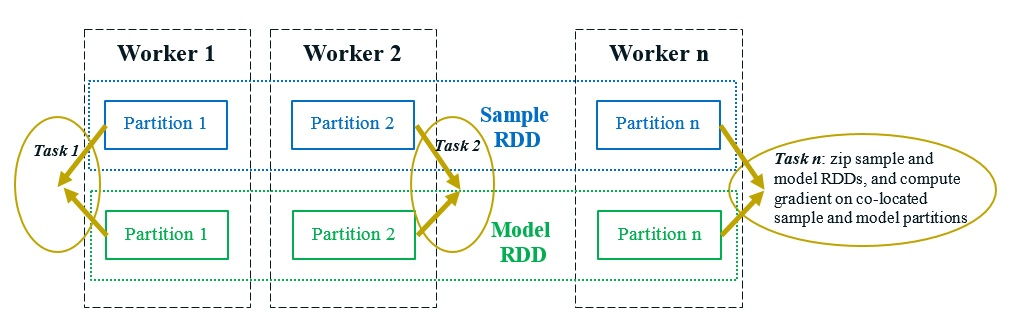
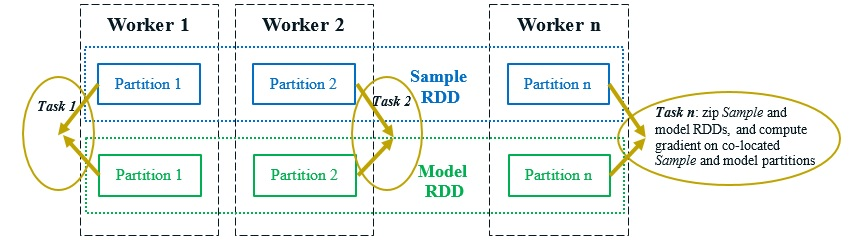
update white paper (#2505)
* Update whitepaper.md

* Delete fig4.jpg

* Add files via upload

* Delete fig6.jpg

* Add files via upload

* Update whitepaper.md

diff --git a/docs/docs/whitepaper.md b/docs/docs/whitepaper.md
@@ -10,7 +10,7 @@ Jason (Jinquan) Dai<sup>1</sup>, Yiheng Wang<sup>1</sup>, Xin Qiu<sup>1</sup>, D
 
 ## **Abstract**
 
-*In this paper, we present BigDL, a distributed deep learning framework for Big Data platforms and workflows. It is implemented on top of Apache Spark, and allows users to write their deep learning applications as standard Spark programs (running directly on large-scale big data clusters in a distributed fashion). It provides an expressive, “data-analytics integrated” deep learning programming model, so that users can easily build the end-to-end analytics + AI pipelines under a unified programing paradigm; by implementing an *AllReduce* like operation using existing primitives in Spark (e.g., shuffle, broadcast, and in-memory data persistence), it also provides a highly efficient “parameter server” style architecture, so as to achieve highly scalable, data-parallel distributed training. Since its initial open source release, BigDL users have built many analytics and deep learning applications (e.g., object detection, sequence-to-sequence generation, neural recommendations, fraud detection, etc.) on Spark.*
+*In this paper, we present BigDL, a distributed deep learning framework for Big Data platforms and workflows. It is implemented on top of Apache Spark, and allows users to write their deep learning applications as standard Spark programs (running directly on large-scale big data clusters in a distributed fashion). It provides an expressive, “data-analytics integrated” deep learning programming model, so that users can easily build the end-to-end analytics + AI pipelines under a unified programing paradigm; by implementing an *AllReduce* like operation using existing primitives in Spark (e.g., shuffle, broadcast, and in-memory data persistence), it also provides a highly efficient “parameter server” style architecture, so as to achieve highly scalable, data-parallel distributed training. Since its initial open source release, BigDL users have built many analytics and deep learning applications (e.g., object detection, sequence-to-sequence generation, visual similarity, neural recommendations, fraud detection, etc.) on Spark.*
 
 ## **1.	Introduction**
 
@@ -24,7 +24,7 @@ Recent breakthroughs in artificial intelligence have brought deep learning to th
 
 We have developed *BigDL* [11], a distributed deep learning framework for big data platforms and workflows. It is implemented as a library on top of Apache Spark, and allows users to write their large-scale deep learning applications (including model training, fine-tuning and inference) as standard Spark programs, which can run directly on existing big data (Hadoop or Spark) clusters. BigDL provides comprehensive support of deep learning technologies (neural network operations, layers, losses and optimizers); in particular, users can directly run existing models defined in other frameworks (such as TensorFlow, Keras [12], Caffe and Torch) on Spark in a distributed fashion.
 
-BigDL also provides seamless integrations of deep learning technologies into the big data ecosystem. Not only can a BigDL program directly interact with different components in the Spark framework (e.g., DataFrames [13], Spark Streaming [14], ML Pipelines [15], etc.), it can also directly run in a variety of big data frameworks (such as Apache Storm [17], Apache Flink [18], Apache Kafka [19], etc.). Since its initial open source on Dec 30, 2016, BigDL has enabled many community users to build their deep learning applications (e.g., object detection, sequence-to-sequence generation, neural recommendations, fraud detection, etc.) on Spark and big data platforms.
+BigDL also provides seamless integrations of deep learning technologies into the big data ecosystem. Not only can a BigDL program directly interact with different components in the Spark framework (e.g., DataFrames [13], Spark Streaming [14], ML Pipelines [15], etc.), it can also directly run in a variety of big data frameworks (such as Apache Storm [17], Apache Flink [18], Apache Kafka [19], etc.). Since its initial open source on Dec 30, 2016, BigDL has enabled many community users to build their deep learning applications (e.g., object detection, sequence-to-sequence generation, visual similarity, neural recommendations, fraud detection, etc.) on Spark and big data platforms.
 
 ## **2.	Programming Model** 
 
@@ -55,10 +55,11 @@ BigDL is implemented on Apache Spark, a widely used cluster computing engine for
 21   optim_method = Adagrad()
 22   optimizer = Optimizer(model=model, training_rdd=sample_rdd, 
 23                         criterion=loss, optim_method= optim_method, …)
-24   trained_model =optimizer.optimize()
-25   //model prediction
-26   test_rdd = …
-27   prediction_rdd = trained_model.predict(test_rdd)
+24   optimizer.set_train_summary(summary = TrainSummary(…))
+25   trained_model =optimizer.optimize()
+26   //model prediction
+27   test_rdd = …
+28   prediction_rdd = trained_model.predict(test_rdd)
 ```
 
 *Figure 1. The end-to-end text classification pipeline (including data loading, tokenization, word vectorization, training, prediction, etc.) on Spark and BigDL.*
@@ -81,22 +82,24 @@ Similar to Torch and Keras, BigDL uses a dataflow representation for the neural 
 
 ### **2.4. Model training**
 
-The transformed input data (RDD of Samples) and the constructed model can then be passed over to the *Optimizer* in BigDL, which automatically performs distributed model training across the cluster, as illustrated by lines 19 ~ 24 in *Figure 1.*
+The transformed input data (RDD of Samples) and the constructed model can then be passed over to the *Optimizer* in BigDL, which automatically performs distributed model training across the cluster, as illustrated by lines 19 ~ 25 in *Figure 1.*
 
-* **Optimizer:** In BigDL, the distributed training process is modelled by an Optimizer abstraction, which runs iterative Spark jobs to minimize the loss (as defined by the user specified Criterion) using specific optimization method (such as *SGD, AdaGrad [24], Adam [25], etc.*).
+* **Optimizer:** In BigDL, the distributed training process is modelled by the Optimizer abstraction, which runs multiple, iterative Spark jobs to minimize the loss (as defined by the user specified Criterion) using specific optimization method (such as *SGD, AdaGrad [24], Adam [25], etc.*).
+
+* **Visualization:** To make it easy for users to understand the behaviors of model training, the *optimizer* in BigDL can be configured to produce a *TrainSummary* that contains various summary data (e.g., loss, weight, etc.), as illustrated by line 24 in Figure 1; the summary data can then be visualized in, for instance, TensorBoard [26] or Jupytor Notebooks [27].
 
 ### **2.5. Model Inference**
-BigDL also allows users to directly use existing models (pre-trained by Caffe, Keras, TensorFlow, Torch or BigDL) in Spark, so as to directly perform model prediction in a distributed fashion (using RDD transformations), as illustrated by lines 25 ~ 27 in Figure 1. 
+BigDL also allows users to directly use existing models (pre-trained by Caffe, Keras, TensorFlow, Torch or BigDL) in Spark, so as to directly perform model prediction in a distributed fashion (using RDD transformations), as illustrated by lines 26 ~ 28 in Figure 1. 
 
-* **ModelBroadcast:** BigDL provides the *ModelBroadcast* abstraction to manage the deployment of the pre-trained model across the cluster in a Spark job; the model prediction operation (*predict*) in BigDL uses *ModelBroadcast* to cache a single copy of the model on each machine (by leveraging the *broadcast* [26] mechanism in Spark), and manage the model cloning and weight sharing among different tasks in the same machine.
+* **ModelBroadcast:** BigDL provides the *ModelBroadcast* abstraction to manage the deployment of the pre-trained model across the cluster in a Spark job; the model prediction operation (*predict*) in BigDL uses *ModelBroadcast* to cache a single copy of the model on each machine (by leveraging the *broadcast* [28] mechanism in Spark), and manage the model cloning and weight sharing among different tasks in the same machine.
 
 ### **2.6. Spark DataFrame and ML Pipeline**
 
-Besides RDD, Spark provides a high level *DataFrame* abstraction [13], which is a distributed collection of rows with a specific schema (similar to a table in a relational database), and implements data-parallel relational operators like *filter* and *join* for efficient structured data analysis. On top of DataFrame, Spark introduces a high level ML *(machine learning) pipeline* [15] similar to SciKit-Learn [27], which allows users to construct the machine learning workflow as a graph of transformations on data (e.g., feature extraction, normalization, model training, etc.). BigDL also provides native integration with the high level Spark DataFrame and ML Pipeline APIs (using its *DLModel* and *DLEstimator* abstractions). 
+Besides RDD, Spark provides a high level *DataFrame* abstraction [13], which is a distributed collection of rows with a specific schema (similar to a table in a relational database), and implements data-parallel relational operators like *filter* and *join* for efficient structured data analysis. On top of DataFrame, Spark introduces a high level ML *(machine learning) pipeline* [15] similar to SciKit-Learn [29], which allows users to construct the machine learning workflow as a graph of transformations on data (e.g., feature extraction, normalization, model training, etc.). BigDL also provides native integration with the high level Spark DataFrame and ML Pipeline APIs (using its *DLModel* and *DLEstimator* abstractions). 
 
 ## **3.	Execution Model**
 
-Similar to other Big Data systems (such as MapReduce [28]), a Spark cluster consists of a single driver node and multiple worker nodes, as shown in Figure 2.  The driver node is responsible for coordinating the tasks in a Spark job (e.g., scheduling and dispatching), while the worker nodes are responsible for the actual computation and physical data storage. To automatically parallelize the large-scale data processing across the cluster in a fault-tolerant fashion, Spark provides a functional compute model where immutable RDDs are transformed through coarse-grained operators (i.e., applying the same operation to all data items). 
+Similar to other Big Data systems (such as MapReduce [30]), a Spark cluster consists of a single driver node and multiple worker nodes, as shown in Figure 2.  The driver node is responsible for coordinating the tasks in a Spark job (e.g., scheduling and dispatching), while the worker nodes are responsible for the actual computation and physical data storage. To automatically parallelize the large-scale data processing across the cluster in a fault-tolerant fashion, Spark provides a functional compute model where immutable RDDs are transformed through coarse-grained operators (i.e., applying the same operation to all data items). 
 
  ![fig2](Image/WP/fig2.jpg) 
  
@@ -106,14 +109,14 @@ On the other hand, efficient and distributed training of deep neural networks wo
 
 ### **3.1. Data-parallel training**
 
-To train a deep neural network model across the cluster, BigDL provides data-parallel training on Spark using synchronous mini-batch SGD, which is shown to achieve better scalability and efficiency (in terms of time-to-quality) compared to asynchronous training [29][30]. The distributed training in BigDL is implemented as an iterative process, as illustrated in Figure 3; each iteration runs a couple of Spark jobs to first compute the gradients using the current mini-batch, and then make a single update to the parameters of the neural network model.
+To train a deep neural network model across the cluster, BigDL provides data-parallel training on Spark using synchronous mini-batch SGD, which is shown to achieve better scalability and efficiency (in terms of time-to-quality) compared to asynchronous training [31][32]. The distributed training in BigDL is implemented as an iterative process, as illustrated in Figure 3; each iteration runs a couple of Spark jobs to first compute the gradients using the current mini-batch, and then make a single update to the parameters of the neural network model.
 
 ```
 for (i <- 1 to N) {
   //"model forward-backward" job
   for each task in the Spark job:
      read the latest weights
-     get a random batch of data from local sample partition
+     get a random batch of data from local Sample partition
      compute errors (forward on local model replica)
      compute gradients (backward on local model replica)
   //"parameter synchronization" job
@@ -125,7 +128,7 @@ for (i <- 1 to N) {
 
 *Figure 3. BigDL provides efficient, data-parallel, synchronous mini-batch SGD, where each iteration runs two Spark jobs for “model forward-backward” and “parameter synchronization”.*
 
-As described in Section 2, BigDL models the training data as an RDD of Samples, which are automatically partitioned and potentially cached in memory across the Spark cluster. In addition, to implement the data-parallel training, BigDL also constructs an RDD of models, each of which is a replica of the original neural network model. The model and sample RDDs are co-partitioned and co-located [14] across the cluster, as shown in Figure 4; consequently, in each iteration of the model training, a single “model forward-backward” Spark job can apply the functional zip operator to the partitions of model and sample RDDs, and compute the gradients in parallel for each model replica (using a small batch of data in the co-located sample partition), as illustrated in Figure 4.
+As described in Section 2, BigDL models the training data as an RDD of Samples, which are automatically partitioned and potentially cached in memory across the Spark cluster. In addition, to implement the data-parallel training, BigDL also constructs an RDD of models, each of which is a replica of the original neural network model. The model and Sample RDDs are co-partitioned and co-located [14] across the cluster, as shown in Figure 4; consequently, in each iteration of the model training, a single “model forward-backward” Spark job can apply the functional *zip* operator to the partitions of model and Sample RDDs, and compute the gradients in parallel for each model replica (using a small batch of data in the co-located Sample partition), as illustrated in Figure 4.
 
 ![fig4](Image/WP/fig4.jpg) 
  
@@ -133,8 +136,9 @@ As described in Section 2, BigDL models the training data as an RDD of Samples, 
 
 ### **3.2. Parameter synchronization**
 
-Parameter synchronization is a performance critical operation for data-parallel training (in terms of speed and scalability). To support efficient parameter synchronization, existing deep learning frameworks usually implement the parameter server [31][32][33] architecture or AllReduce [34] operation, which unfortunately cannot be directly supported by the functional compute model provided by the Big Data systems.
-In BigDL, we have adapted the primitives available in the Spark (e.g., shuffle, broadcast, in-memory cache, etc.) to implement an efficient AllReduce-like operation, so as to mimic the functionality of a parameter server architecture (as illustrated in Figure 5).
+Parameter synchronization is a performance critical operation for data-parallel training (in terms of speed and scalability). To support efficient parameter synchronization, existing deep learning frameworks usually implement the *parameter server* [33][34][35] architecture or *AllReduce* [36] operation, which unfortunately cannot be directly supported by the functional compute model provided by the Big Data systems.
+
+In BigDL, we have adapted the primitives available in Spark (e.g., *shuffle, broadcast, in-memory cache*, etc.) to implement an efficient AllReduce-like operation, so as to mimic the functionality of a parameter server architecture (as illustrated in Figure 5).
  
 ![fig5](Image/WP/fig5.jpg) 
 
@@ -142,40 +146,34 @@ In BigDL, we have adapted the primitives available in the Spark (e.g., shuffle, 
 
 * A Spark job has *N* tasks, each of which is assigned a unique Id ranging from *1* to *N* in BigDL. After each task in the “*model forward-backward*” job computes the local gradients (as described in section 3.1), it evenly divides the local gradients into *N* partitions, as shown in Figure 5.
 
-* Next, another “*parameter synchronization*” job is launched; each task *n* in the “*parameter synchronization*” job is responsible for managing the n<sup>th</sup> partition of the parameters, just like a parameter server (as shown in Figure 6). Specifically, the n<sup>th</sup> partition of the gradients (from all the tasks of the previous “*model forward-backward*” job) are first **shuffled** to task n, which then aggregates (sums) these gradients, and applies the updates to the n<sup>th</sup> partition of the weights (using the specific optimization method), as illustrated in Figure 5.
+* Next, another “*parameter synchronization*” job is launched; each task *n* in the “*parameter synchronization*” job is responsible for managing the n<sup>th</sup> partition of the parameters, just like a parameter server (as shown in Figure 6). Specifically, the n<sup>th</sup> partition of the gradients (from all the tasks of the previous “*model forward-backward*” job) are first **shuffled** to task *n*, which then aggregates (sums) these gradients, and applies the updates to the n<sup>th</sup> partition of the weights (using the specific *optimization method*), as illustrated in Figure 5.
 
-```
-For each task n in the "parameter synchronization" job
-   shuffle the nth partition of all gradients to this task
-   aggregate (sum) the gradients
-   updates the nth partition of the weights
-   broadcast the nth partition of the updated weights
-```
+![fig6](Image/WP/fig6.jpg) 
 
 *Figure 6. The “parameter synchronization” Spark job, manages the n<sup>th</sup> partition of the parameters (similar to a parameter server).*
  
-* After that, each task *n* in the “*parameter synchronization*” job **broadcasts** the n<sup>th</sup> partition of the updated weights; consequently, tasks in the “*model forward-backward*” job in the next iteration can read the latest value of all the weights before the next training step begins.
+* After that, each task *n* in the “*parameter synchronization*” job **broadcasts** the n<sup>th</sup> partition of the updated weights; consequently, tasks in the “*model forward-backward*” job of the next iteration can read the latest value of all the weights before the next training step begins.
 
-* The *shuffle* and *task-side broadcast* operations described above are implemented on top of the distributed **in-memory** storage in Spark: both the shuffled gradients and broadcasted weights are materialized in memory, which can be read remotely by the Spark tasks with extremely low latency.
+* The *shuffle* and *task-side broadcast* operations described above are implemented on top of the distributed **in-memory** storage in Spark: both the shuffled *gradients* and broadcasted *weights* are materialized in memory, which can be read remotely by the Spark tasks with extremely low latency.
 
-By implementing the AllReduce operation using primitives in Spark, BigDL provides a highly efficient “parameter server” style architecture directly on top of Big Data frameworks. As a result, it is demonstrated to support highly scalable distributed training on up to 256-node, as reported by Cray [35] and shown in Figure 7. 
+By implementing the AllReduce operation using primitives in Spark, BigDL provides a highly efficient “parameter server” style architecture directly on top of Big Data frameworks. As a result, it is demonstrated to support highly scalable distributed training on up to 256-node, as reported by Cray [37] and shown in Figure 7. 
  
  ![fig7](Image/WP/fig7.jpg) 
 
-*Figure 7. Throughput of ImageNet Inception v1 training reported by Cary [35] (using BigDL 0.3.0 and dual-socket Intel Broadwell 2.1 GHz); the training throughput scales almost linear up to 128 nodes (and continue to scale reasonably up to 256 nodes).*
+*Figure 7. Throughput of ImageNet Inception v1 training reported by Cary [37] (using BigDL 0.3.0 and dual-socket Intel Broadwell 2.1 GHz); the training throughput scales almost linear up to 128 nodes (and continue to scale reasonably up to 256 nodes).*
 
 
 ### **3.3. Task scheduling**
 
-While BigDL provides a highly efficient “parameter server” style architecture, it has a fundamentally different implementation than existing deep learning frameworks. In particular, existing deep learning frameworks are typically deployed as multiple long-running, potentially stateful tasks [3], which interact with each other (in a blocking fashion to support synchronous mini-batch SGD) for model computation and/or parameter synchronization.
+While BigDL provides a highly efficient “parameter server” style architecture, it has a fundamentally different implementation than existing deep learning frameworks. In particular, existing deep learning frameworks are typically deployed as multiple long-running, potentially stateful tasks [3], which interact with each other (in a blocking fashion to support synchronous mini-batch SGD) for model computation and parameter synchronization.
 
-In contrast, BigDL runs a series of short-lived Spark jobs (e.g., two jobs per mini-batch as described in earlier sections), and each task in the job is stateless and non-blocking. As a result, BigDL programs can automatically adapt to the dynamic resource changes (e.g., preemption, failures, incremental scaling, resource sharing, etc.) in a timely fashion. On the other hand, task scheduling in Spark can become a potential bottleneck of the distributed training on a large cluster. For instance, Figure 8 shows that, for ImageNet Inception v1 training, the overhead of launching tasks (as a fraction of average compute time) in BigDL, while low for 100~200 tasks, can grows to over 10% when there are close to 500 tasks [37]. To address this issue, BigDL will launch a single, multi-threaded task on each worker, so as to achieve high scalability (e.g., up to 256 servers as shown in Figure 7 above). 
+In contrast, BigDL runs a series of short-lived Spark jobs (e.g., two jobs per mini-batch as described in earlier sections), and each task in the job is stateless and non-blocking. As a result, BigDL programs can automatically adapt to the dynamic resource changes (e.g., preemption, failures, incremental scaling, resource sharing, etc.) in a timely fashion. On the other hand, task scheduling in Spark can become a potential bottleneck of the distributed training on a large cluster. For instance, Figure 8 shows that, for ImageNet Inception v1 training, the overhead of launching tasks (as a fraction of average compute time) in BigDL, while low for 100~200 tasks, can grows to over 10% when there are close to 500 tasks [39]. To address this issue, BigDL will launch a single, multi-threaded task on each worker, so as to achieve high scalability on large clusters (e.g., up to 256 servers as shown in Figure 7 above). 
 
-To scale to an even larger number (e.g., 500) of workers, one can potentially leverages the iterative nature of the model training (in which the same operations are executed repeatedly). For instance, group scheduling introduced by Drizzle [36] (a low latency execution engine for Spark) can help schedule multiple iterations (or a group) of computations at once, so as to greatly reduce scheduling overheads even if there are a large number of tasks, as benchmarked by RISELab [37] and shown in Figure 8.
+To scale to an even larger number (e.g., 500) of workers, one can potentially leverages the iterative nature of the model training (in which the same operations are executed repeatedly). For instance, group scheduling introduced by *Drizzle* [38] (a low latency execution engine for Spark) can help schedule multiple iterations (or a group) of computations at once, so as to greatly reduce scheduling overheads even if there are a large number of tasks, as benchmarked by RISELab [39] and shown in Figure 8.
 
 ![fig8](Image/WP/fig8.jpg) 
   
-*Figure 8. Overheads of task scheduling and dispatch (as a fraction of average compute time) for ImageNet Inception v1 training in BigDL [37].*
+*Figure 8. Overheads of task scheduling and dispatch (as a fraction of average compute time) for ImageNet Inception v1 training in BigDL [39].*
 
 ### **3.4. Model quantization** 
 Quantization refers to using technologies that store numbers and perform calculations on them in more compact and lower precision form (than their original format such as 32-bit floating point). BigDL takes advantage of this type of low precision computing to quantize existing models (which can be pre-trained by various frameworks such as Caffe, Keras, TensorFlow, Torch or BigDL) for optimized inference.
@@ -190,11 +188,11 @@ Math.round(1.0 * value
  
 *Figure 9. Equation for quantizing 32-bit floating point to 8-bit integer.*
 
-Unlike many existing quantization implementations, BigDL adopts a new local quantization scheme. That is, it performs the quantization and dequantization operations (as described above) in each small local quantization window, a small sub-block (such as a patch or kernel in convolution) of the parameters or input data. As a result, BigDL can use very low bit integers, such as 8-bit, in model quantization with extremely low model accuracy drop (less than 0.1%), 4x model size reduction, and up to 2x inference speedup, as benchmarked on AWS EC2 [38] and shown in Figure 10.
+Unlike many existing quantization implementations, BigDL adopts a new local quantization scheme. That is, it performs the quantization and dequantization operations (as described above) in each small local quantization window, a small sub-block (such as a patch or kernel in convolution) of the parameters or input data. As a result, BigDL can use very low bit integers, such as 8-bit, in model quantization with extremely low model accuracy drop (less than 0.1%), 4x model size reduction, and up to 2x inference speedup, as benchmarked on AWS EC2 [40] and shown in Figure 10.
 
 ![fig10](Image/WP/fig10.jpg)
    
-*Figure 10. Model quantization results (accuracy, inference speed and model size) for SSD, VGG16 and VGG19 (using BigDL 0.3.0 and AWS EC2 C5.18xlarge instances) [38].*
+*Figure 10. Model quantization results (accuracy, inference speed and model size) for SSD, VGG16 and VGG19 (using BigDL 0.3.0 and AWS EC2 C5.18xlarge instances) [40].*
 
 ### **3.5. Local execution**
 
@@ -202,80 +200,98 @@ In addition to being a standard Spark program, BigDL also provide support to run
 
 ## **4.	Applications**
 
-Since its initial open source release (on Dec 30, 2016), BigDL users have built many deep learning applications on Spark and Big Data platforms. In this section, we describes two typical use cases for both model inference and training using BigDL.
+Since its initial open source release (on Dec 30, 2016), BigDL users have built many deep learning applications on Spark and Big Data platforms. In this section, we describes three typical use cases (namely, model inference, distributed training and transfer learning) using Spark and BigDL.
 
-### **4.1. Image feature extraction**
+### **4.1. Model Inference: image feature extraction**
 
-JD.com [39] is one of the largest online retailers in the world. It has built an end-to-end *object detection and image feature extraction* pipeline [40] on top of BigDL and Spark, as illustrated in Figure 11.
+JD.com [41] is one of the largest online retailers in the world. It has built an end-to-end *object detection and image feature extraction* pipeline on top of Spark and BigDL[42], as illustrated in Figure 11.
 
 
 ![fig11](Image/WP/fig11.jpg) 
  
-*Figure 11. End-to-end object detection and image feature extraction pipeline (using SSD and DeepBit models) on top of Spark and BigDL [40].*
+*Figure 11. End-to-end object detection and image feature extraction pipeline (using SSD and DeepBit models) on top of Spark and BigDL [42].*
 
 * The pipeline first reads hundreds of millions of pictures from a distributed database into Spark (as an RDD of pictures), and then pre-processes the RDD of pictures (including *resizing*, *normalization*, and *batching*) in a distributed fashion using Spark.
 
-* After that, it uses BigDL to load a *SSD* [41] model (pre-trained in Caffe) for large scale, distributed object detection on Spark, which generates the coordinates and scores for the detected objects in each of the pictures.
+* After that, it uses BigDL to load a *SSD* [43] model (pre-trained in Caffe) for large scale, distributed object detection on Spark, which generates the coordinates and scores for the detected objects in each of the pictures.
 
 * It then generates the target images (by keeping the object with highest score as the target, and cropping the original picture based on the coordinates of the target), and further pre-processes the RDD of target images (including *resizing* and *batching*).
 
-* Finally it uses BigDL to load a *DeepBit* [42] model (again pre-trained in Caffe) for distributed feature extraction of the target images to generate the corresponding features, and stores the results (RDD of extracted object features) in the Hadoop Distributed File System (HDFS).
+* Finally it uses BigDL to load a *DeepBit* [44] model (again pre-trained in Caffe) for distributed feature extraction of the target images to generate the corresponding features, and stores the results (RDD of extracted object features) in the Hadoop Distributed File System (HDFS).
 
-The entire data analytics and deep learning pipeline, including data loading, partitioning, preprocessing, model inference, and storing the results, can be easily implemented under a unified programming paradigm (using Spark and BigDL). In addition, the end-to-end pipeline also delivers ~3.83x speedup compared to running the same solution on a GPU cluster, as reported by JD [40] and shown in Figure 12.
+The entire data analytics and deep learning pipeline, including data loading, partitioning, preprocessing, model inference, and storing the results, can be easily implemented under a unified programming paradigm (using Spark and BigDL). In addition, the end-to-end pipeline also delivers ~3.83x speedup compared to running the same solution on a GPU cluster, as reported by JD [42] and shown in Figure 12.
 
 
 ![fig12](Image/WP/fig12.jpg) 
  
-*Figure 12. Throughput of GPU clusters and Xeon clusters for the image feature extraction pipeline benchmarked by JD [40]; the GPU throughput is tested on 20 NVIDIA Tesla K40 cards, and the Xeon throughput is tested on 1200 logical cores (where each dual-socket Intel Xeon E5-2650 v4 server runs 50 logical cores).*
+*Figure 12. Throughput of GPU clusters and Xeon clusters for the image feature extraction pipeline benchmarked by JD [42]; the GPU throughput is tested on 20 NVIDIA Tesla K40 cards, and the Xeon throughput is tested on 1200 logical cores (where each dual-socket Intel Xeon E5-2650 v4 server runs 50 logical cores).*
 
-### **4.2. Precipitation Nowcasting**
+### **4.2. Distributed training: precipitation nowcasting**
 
-Cray has integrated BigDL to their Urika-XC analytics software suite, and built an end-to-end precipitation nowcasting (*predicting short-term precipitation*) workflow [35] on spark and BigDL, including data preparation, model training and inference, as illustrated in Figure 13. 
+Cray has integrated BigDL to their Urika-XC analytics software suite, and built an end-to-end precipitation nowcasting (*predicting short-term precipitation*) workflow on spark and BigDL[37], including data preparation, model training and inference (as illustrated in Figure 13). 
 
 
 ![fig13](Image/WP/fig13.jpg) 
  
-*Figure 13. End-to-end precipitation nowcasting workflow (using sequence-to-sequence model) [35] on Spark and BigDL.*
+*Figure 13. End-to-end precipitation nowcasting workflow (using sequence-to-sequence model) [37] on Spark and BigDL.*
 
 * The application first reads over a terabyte of raw radar scan data into Spark (as an RDD of radar images), and then converts it into an RDD of *NumPy ndarrays*.
 
-* It then trains a *sequence-to-sequence* model [43][44] (as illustrated in Figure 13), using a sequence of images leading up to the current time as the input, and a sequence of predicted images arbitrarily far in the future as the output.
+* It then trains a *sequence-to-sequence* model [45][46] (as illustrated in Figure 13), using a sequence of images leading up to the current time as the input, and a sequence of predicted images in the future as the output.
 
 * After the model is trained, it can be used to predict, say, precipitation patterns for the next hour, as illustrated in Figure 14.
  
 ![fig14](Image/WP/fig14.jpg) 
 
-*Figure 14. Predicting precipitation patterns for the next hour [35] on Spark and BigDL (i.e., a sequence of images for the future time steps of the next hour).*
+*Figure 14. Predicting precipitation patterns for the next hour (i.e., a sequence of images for the future time steps of the next hour) on Spark and BigDL [37]*
+
+### **4.3. Transfer learning: image-similarity based house recommendations**
+
+MLSListings Inc. is a large *Multiple Listing Service* (MLS) for real estate listings, who has been building an image-similarity based house recommendation system on Spark and BigDL [47]. The end-to-end workflow is implemented by leveraging transfer learning (including feature extractions and fine-tuning) technologies, so as to compute both the semantic and visual similarity of the house photos, as illustrated in Figure 15.
+
+![fig15](Image/WP/fig15.jpg) 
+
+*Figure 15. End-to-end workflow for image-similarity based house recommendations on Spark and BigDL [47]*
+
+To compute the *semantic similarity* for the photos, the system fine-tunes the Inception v1 [48] model pre-trained on the Places dataset [49], so as to train three new classifiers (namely, whether the photo shows the house front exterior, the house style and the house stories). In particular, it first loads three pre-trained Inception v1 models, and then appends two new layers (a fully-connected layer followed by a Softmax layer) to each model, so as to train the new classifiers (using photos for which MLSListings have been assigned copyrights). After the training, it can use these classifiers to produce the tags (or labels) for each house listing photo.
+
+To compute the visual similarity, the system use the VGG-16 [50] model pre-trained on the Places dataset to extract the image feature for each house listing photo, which is then combined with the tags generated by the classifiers and stored into a distributed table storage.
+
+At *model serving* time, the user can select a house listing photo, and have the system to recommend house listings of similar visual characteristics (by computing the cosine similarity score using the image features, while taking into considerations other properties of the houses such as photo tags, house prices, locations, etc.), as illustrated in the *“Similar Houses”* section of the webpage in Figure 16.
+
+![fig16](Image/WP/fig16.jpg) 
+ 
+*Figure 16. Automatically recommending “Similar Houses” with similar visual characteristics [47]*
 
 ## **5.	Summary**
 
 We have described BigDL, including its programming model, execution model and typical use cases. It combines the benefits of big data and HPC (high performance computing) architecture, so as to provide both an expressive, “data-analytics integrated” deep learning programing model for users to build their analytics + AI pipelines, and a highly efficient “parameter server” style architecture directly on top of Big Data platforms for scalable data-parallel training. 
 
-BigDL is a work in progress, but our initial experience is encouraging. Since its initial open source release (on Dec 30, 2016), it has received over 2300 stars on Github; and it have enabled many users to build new analytics and deep learning applications, which can directly run on top of existing Hadoop and/or Spark clusters.
+BigDL is a work in progress, but our initial experience is encouraging. Since its initial open source release (on Dec 30, 2016), it has received over 2400 stars on Github; and it have enabled many users to build new analytics and deep learning applications, which can directly run on top of existing Hadoop and/or Spark clusters.
 	
 ## **6.	Acknowledgement**
 
-We gratefully acknowledge contributions from our (current and former) colleagues at Intel (including Jun Wang, Liangying Lv, Andy Chen, Sergey Ermolin, Zewei Chen, Ning Wang, Yulia Tell, Pengfei Yue, Wesley Du, Erjin Ren, Xiao Dong Wang, Radhika Rangarajan, Jack Chen, Milind Damle and Dave Nielsen), and numerous users and collaborators from the open source community (including Shivaram Venkataraman, Zhenhua Wang, Alex Heye, Omid Khanmohamadi, Mike Ringenburg, Gopi Kumar, Xiao Xu, Suqiang Song, etc.) to the BigDL project.
+We gratefully acknowledge contributions from our (current and former) colleagues at Intel (including Jun Wang, Liangying Lv, Andy Chen, Yan Dai, Sergey Ermolin, Zewei Chen, Ning Wang, Yulia Tell, Pengfei Yue, Wesley Du, Erjin Ren, Xiao Dong Wang, Radhika Rangarajan, Jack Chen, Milind Damle and Dave Nielsen), and numerous users and collaborators from the open source community (including Shivaram Venkataraman, Zhenhua Wang, Alex Heye, Omid Khanmohamadi, Mike Ringenburg, Gopi Kumar, Xiao Xu, Suqiang Song, Karthik Palaniappan, etc.) to the BigDL project.
 
 ## **7.	Reference**
 
-[1]	Caffe. [http://caffe.berkeleyvision.org](http://caffe.berkeleyvision.org)
+[1] Caffe. [http://caffe.berkeleyvision.org](http://caffe.berkeleyvision.org)
 
-[2]	Torch. [http://torch.ch](http://torch.ch)
+[2] Torch. [http://torch.ch](http://torch.ch)
 
-[3]	Martín Abadi, et al. “TensorFlow: A System for Large-Scale Machine Learning”, OSDI 2016.
+[3] Martín Abadi, et al. “TensorFlow: A System for Large-Scale Machine Learning”, OSDI 2016.
 
-[4]	Tianqi Chen, et al. “MXNet: A Flexible and Efficient Machine Learning Library for Heterogeneous Distributed Systems”, LearningSys 2015.
+[4] Tianqi Chen, et al. “MXNet: A Flexible and Efficient Machine Learning Library for Heterogeneous Distributed Systems”, LearningSys 2015.
 
-[5]	Seiya Tokui, et al. “Chainer: a Next-Generation Open Source Framework for Deep Learning”. LearningSys 2015.
+[5] Seiya Tokui, et al. “Chainer: a Next-Generation Open Source Framework for Deep Learning”. LearningSys 2015.
 
-[6]	Apache Hadoop. [http://hadoop.apache.org](http://hadoop.apache.org)
+[6] Apache Hadoop. [http://hadoop.apache.org](http://hadoop.apache.org)
 
-[7]	Apache Spark. [https://spark.apache.org](https://spark.apache.org)
+[7] Apache Spark. [https://spark.apache.org](https://spark.apache.org)
 
-[8]	Matei Zaharia , et al. “Resilient Distributed Datasets: A Fault-Tolerant Abstraction for In-Memory Cluster Computing”, NSDI 2012.
+[8] Matei Zaharia , et al. “Resilient Distributed Datasets: A Fault-Tolerant Abstraction for In-Memory Cluster Computing”, NSDI 2012.
 
-[9]	Priya Goyal, et al. “Accurate, Large Minibatch SGD: Training ImageNet in 1 Hour”, arXiv: 1706.02677 [cs.CV]
+[9] Priya Goyal, et al. “Accurate, Large Minibatch SGD: Training ImageNet in 1 Hour”, arXiv: 1706.02677 [cs.CV]
 
 [10] Yang You, et al. “ImageNet Training in Minutes”, arXiv:1709.05011 [cs.CV]
 
@@ -309,40 +325,52 @@ We gratefully acknowledge contributions from our (current and former) colleagues
 
 [25] Diederik P. Kingma, et al. “Adam: A Method for Stochastic Optimization”, ICLR 2015.
 
-[26] Reynold Xin, et al. “Shark: SQL and Rich Analytics at Scale”, SIGMOD 2013.
+[26] M. Abadi, et al.[“Tensorflow: Large-scale machine learning on heterogeneous distributed systems.](https://arxiv.org/abs/1603.04467), 2016.
 
-[27] SciKit-Learn. [http://scikit-learn.org/stable/](http://scikit-learn.org/stable/)
+[27] Project Jupyter. [http://jupyter.org](http://jupyter.org)
 
-[28] Jeffrey Dean, et al. “MapReduce: simplified data processing on large clusters”, OSDI 2014.
+[28] Reynold Xin, et al. “Shark: SQL and Rich Analytics at Scale”, SIGMOD 2013.
 
-[29] J. Chen, et al. “Revisiting distributed synchronous SGD”, ICLR Workshop 2016.
+[29] SciKit-Learn. [http://scikit-learn.org/stable/](http://scikit-learn.org/stable/)
 
-[30] H. Cui, et al. “GeePS: Scalable deep learning on distributed GPUs with a GPU specialized parameter server”, EuroSys 2016.
+[30] Jeffrey Dean, et al. “MapReduce: simplified data processing on large clusters”, OSDI 2014.
 
-[31] J. Dean, et al. “Large scale distributed deep networks”, NIPS 2012.
+[31] J. Chen, et al. “Revisiting distributed synchronous SGD”, ICLR Workshop 2016.
 
-[32] T. Chilimbi, et al. “Project Adam: Building an efficient and scalable deep learning training system”, OSDI 2014.
+[32] H. Cui, et al. “GeePS: Scalable deep learning on distributed GPUs with a GPU specialized parameter server”, EuroSys 2016.
 
-[33] M. Li, et al. “Scaling distributed machine learning with the Parameter Server”, OSDI 2014.
+[33] J. Dean, et al. “Large scale distributed deep networks”, NIPS 2012.
 
-[34] Andrew Gibiansky. [Bringing HPC Techniques to Deep Learning](http://research.baidu.com/bringing-hpc-techniques-deep-learning/)
+[34] T. Chilimbi, et al. “Project Adam: Building an efficient and scalable deep learning training system”, OSDI 2014.
 
-[35] Alex Heye, et al. [Scalable Deep Learning with BigDL on the Urika-XC Software Suite](https://www.cray.com/blog/scalable-deep-learning-bigdl-urika-xc-software-suite/)
+[35] M. Li, et al. “Scaling distributed machine learning with the Parameter Server”, OSDI 2014.
 
-[36] Shivaram Venkataraman, et al. “Drizzle: Fast and Adaptable Stream Processing at Scale”, SOSP 2017.
+[36] Andrew Gibiansky. [Bringing HPC Techniques to Deep Learning](http://research.baidu.com/bringing-hpc-techniques-deep-learning/)
 
-[37] Shivaram Venkataraman, et al. [Accelerating Deep Learning Training with BigDL and Drizzle on Apache Spark](https://rise.cs.berkeley.edu/blog/accelerating-deep-learning-training-with-bigdl-and-drizzle-on-apache-spark/)
+[37] Alex Heye, et al. [Scalable Deep Learning with BigDL on the Urika-XC Software Suite](https://www.cray.com/blog/scalable-deep-learning-bigdl-urika-xc-software-suite/)
 
-[38] Jason (Jinquan) Dai, et al. [Leveraging Low Precision and Quantization for Deep Learning Using the Amazon EC2 C5 Instance and BigDL](https://aws.amazon.com/blogs/machine-learning/leveraging-low-precision-and-quantization-for-deep-learning-using-the-amazon-ec2-c5-instance-and-bigdl/)
+[38] Shivaram Venkataraman, et al. “Drizzle: Fast and Adaptable Stream Processing at Scale”, SOSP 2017.
 
-[39] JD. [https://en.wikipedia.org/wiki/JD.com](https://en.wikipedia.org/wiki/JD.com)
+[39] Shivaram Venkataraman, et al. [Accelerating Deep Learning Training with BigDL and Drizzle on Apache Spark](https://rise.cs.berkeley.edu/blog/accelerating-deep-learning-training-with-bigdl-and-drizzle-on-apache-spark/)
 
-[40] Jason (Jinquan) Dai, et al. [Building Large-Scale Image Feature Extraction with BigDL at JD.com](https://software.intel.com/en-us/articles/building-large-scale-image-feature-extraction-with-bigdl-at-jdcom)
+[40] Jason (Jinquan) Dai, et al. [Leveraging Low Precision and Quantization for Deep Learning Using the Amazon EC2 C5 Instance and BigDL](https://aws.amazon.com/blogs/machine-learning/leveraging-low-precision-and-quantization-for-deep-learning-using-the-amazon-ec2-c5-instance-and-bigdl/)
 
-[41] Wei Liu, et al. “SSD: Single Shot MultiBox Detector”, ECCV 2016.
+[41] JD. [https://en.wikipedia.org/wiki/JD.com](https://en.wikipedia.org/wiki/JD.com)
 
-[42] Kevin Lin, et al. “Learning Compact Binary Descriptors with Unsupervised Deep Neural Networks”, CVPR 2016.
+[42] Jason (Jinquan) Dai, et al. [Building Large-Scale Image Feature Extraction with BigDL at JD.com](https://software.intel.com/en-us/articles/building-large-scale-image-feature-extraction-with-bigdl-at-jdcom)
 
-[43] I. Sutskever, et al. “Sequence to sequence learning with neural networks”, NIPS 2014. 
+[43] Wei Liu, et al. “SSD: Single Shot MultiBox Detector”, ECCV 2016.
 
-[44] Xingjian Shi, et al. “Convolutional LSTM Network: A Machine Learning Approach for Precipitation Nowcasting”, NIPS 2015.
+[44] Kevin Lin, et al. “Learning Compact Binary Descriptors with Unsupervised Deep Neural Networks”, CVPR 2016.
+
+[45] I. Sutskever, et al. “Sequence to sequence learning with neural networks”, NIPS 2014. 
+
+[46] Xingjian Shi, et al. “Convolutional LSTM Network: A Machine Learning Approach for Precipitation Nowcasting”, NIPS 2015.
+
+[47] Jason (Jinquan) Dai, et al. [“Using BigDL to Build Image Similarity-Based House Recommendations”](https://software.intel.com/en-us/articles/using-bigdl-to-build-image-similarity-based-house-recommendations)
+
+[48] Christian Szegedy, et al. “Going deeper with convolutions”, CVPR 2015.
+
+[49] B. Zhou, et al. “Places: A 10 million Image Database for Scene Recognition”, IEEE Transactions on Pattern Analysis and Machine Intelligence (TPAMI), 2017.
+
+[50] Karen Simonyan, at al. [“Very Deep Convolutional Networks for Large-Scale Image Recognition”](https://arxiv.org/abs/1409.1556), 2014.
